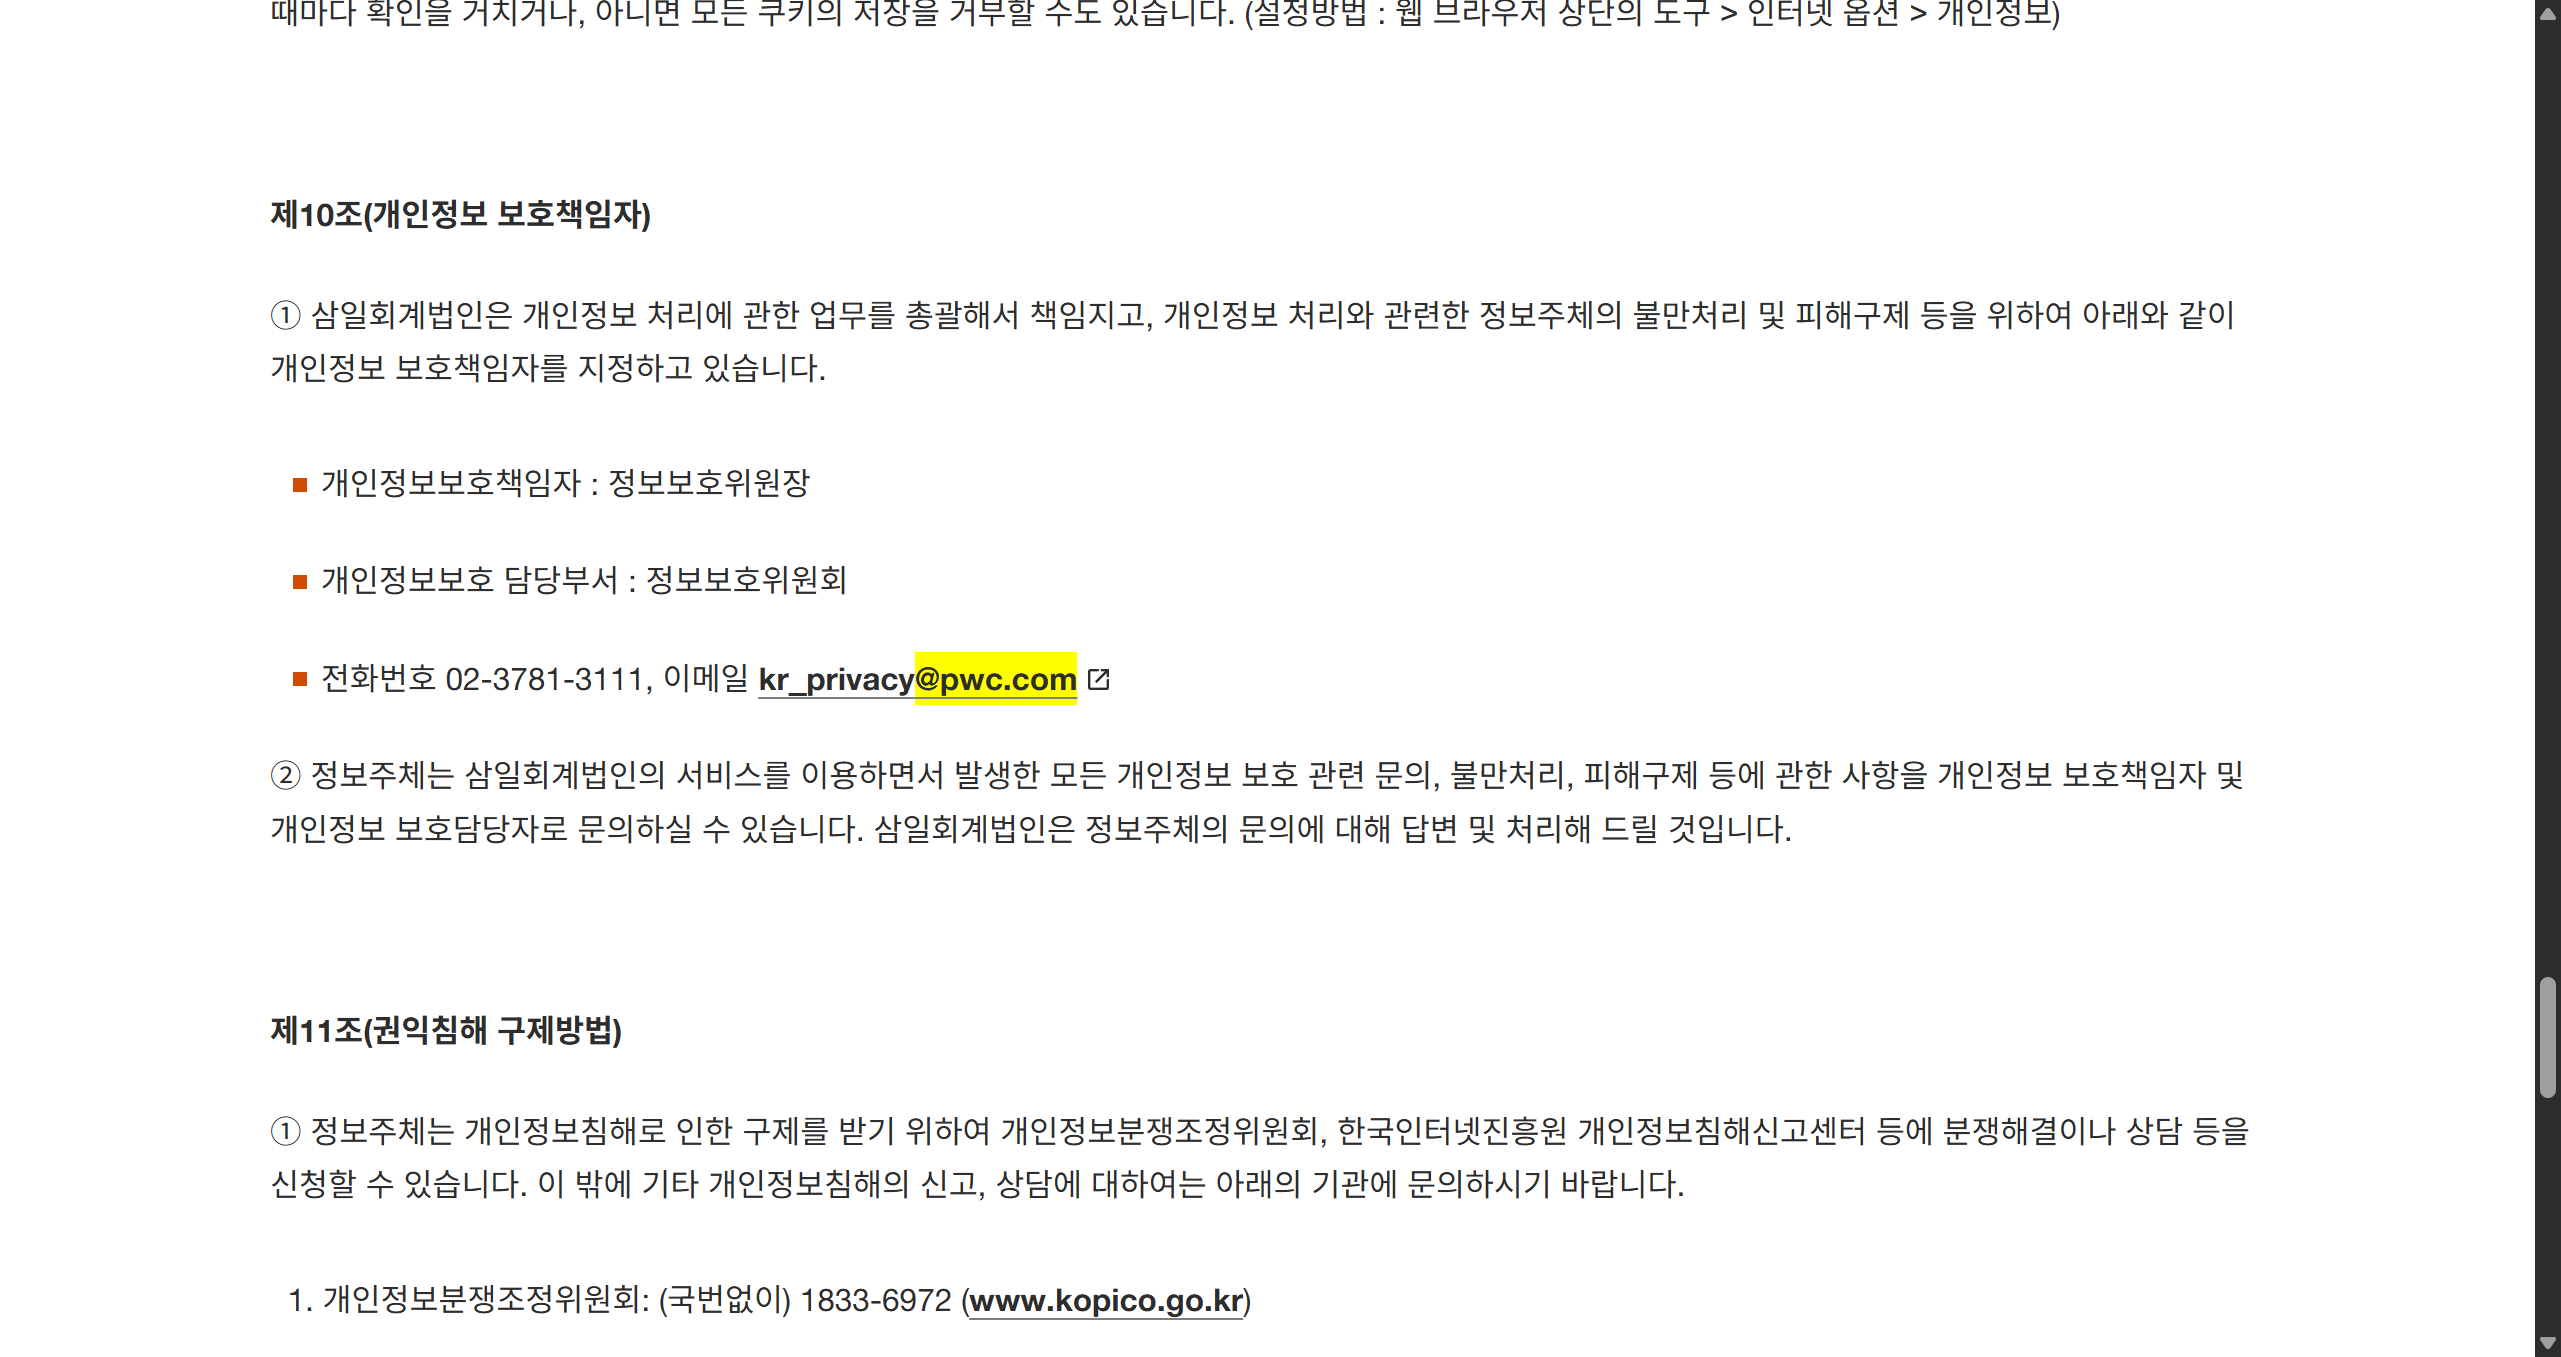
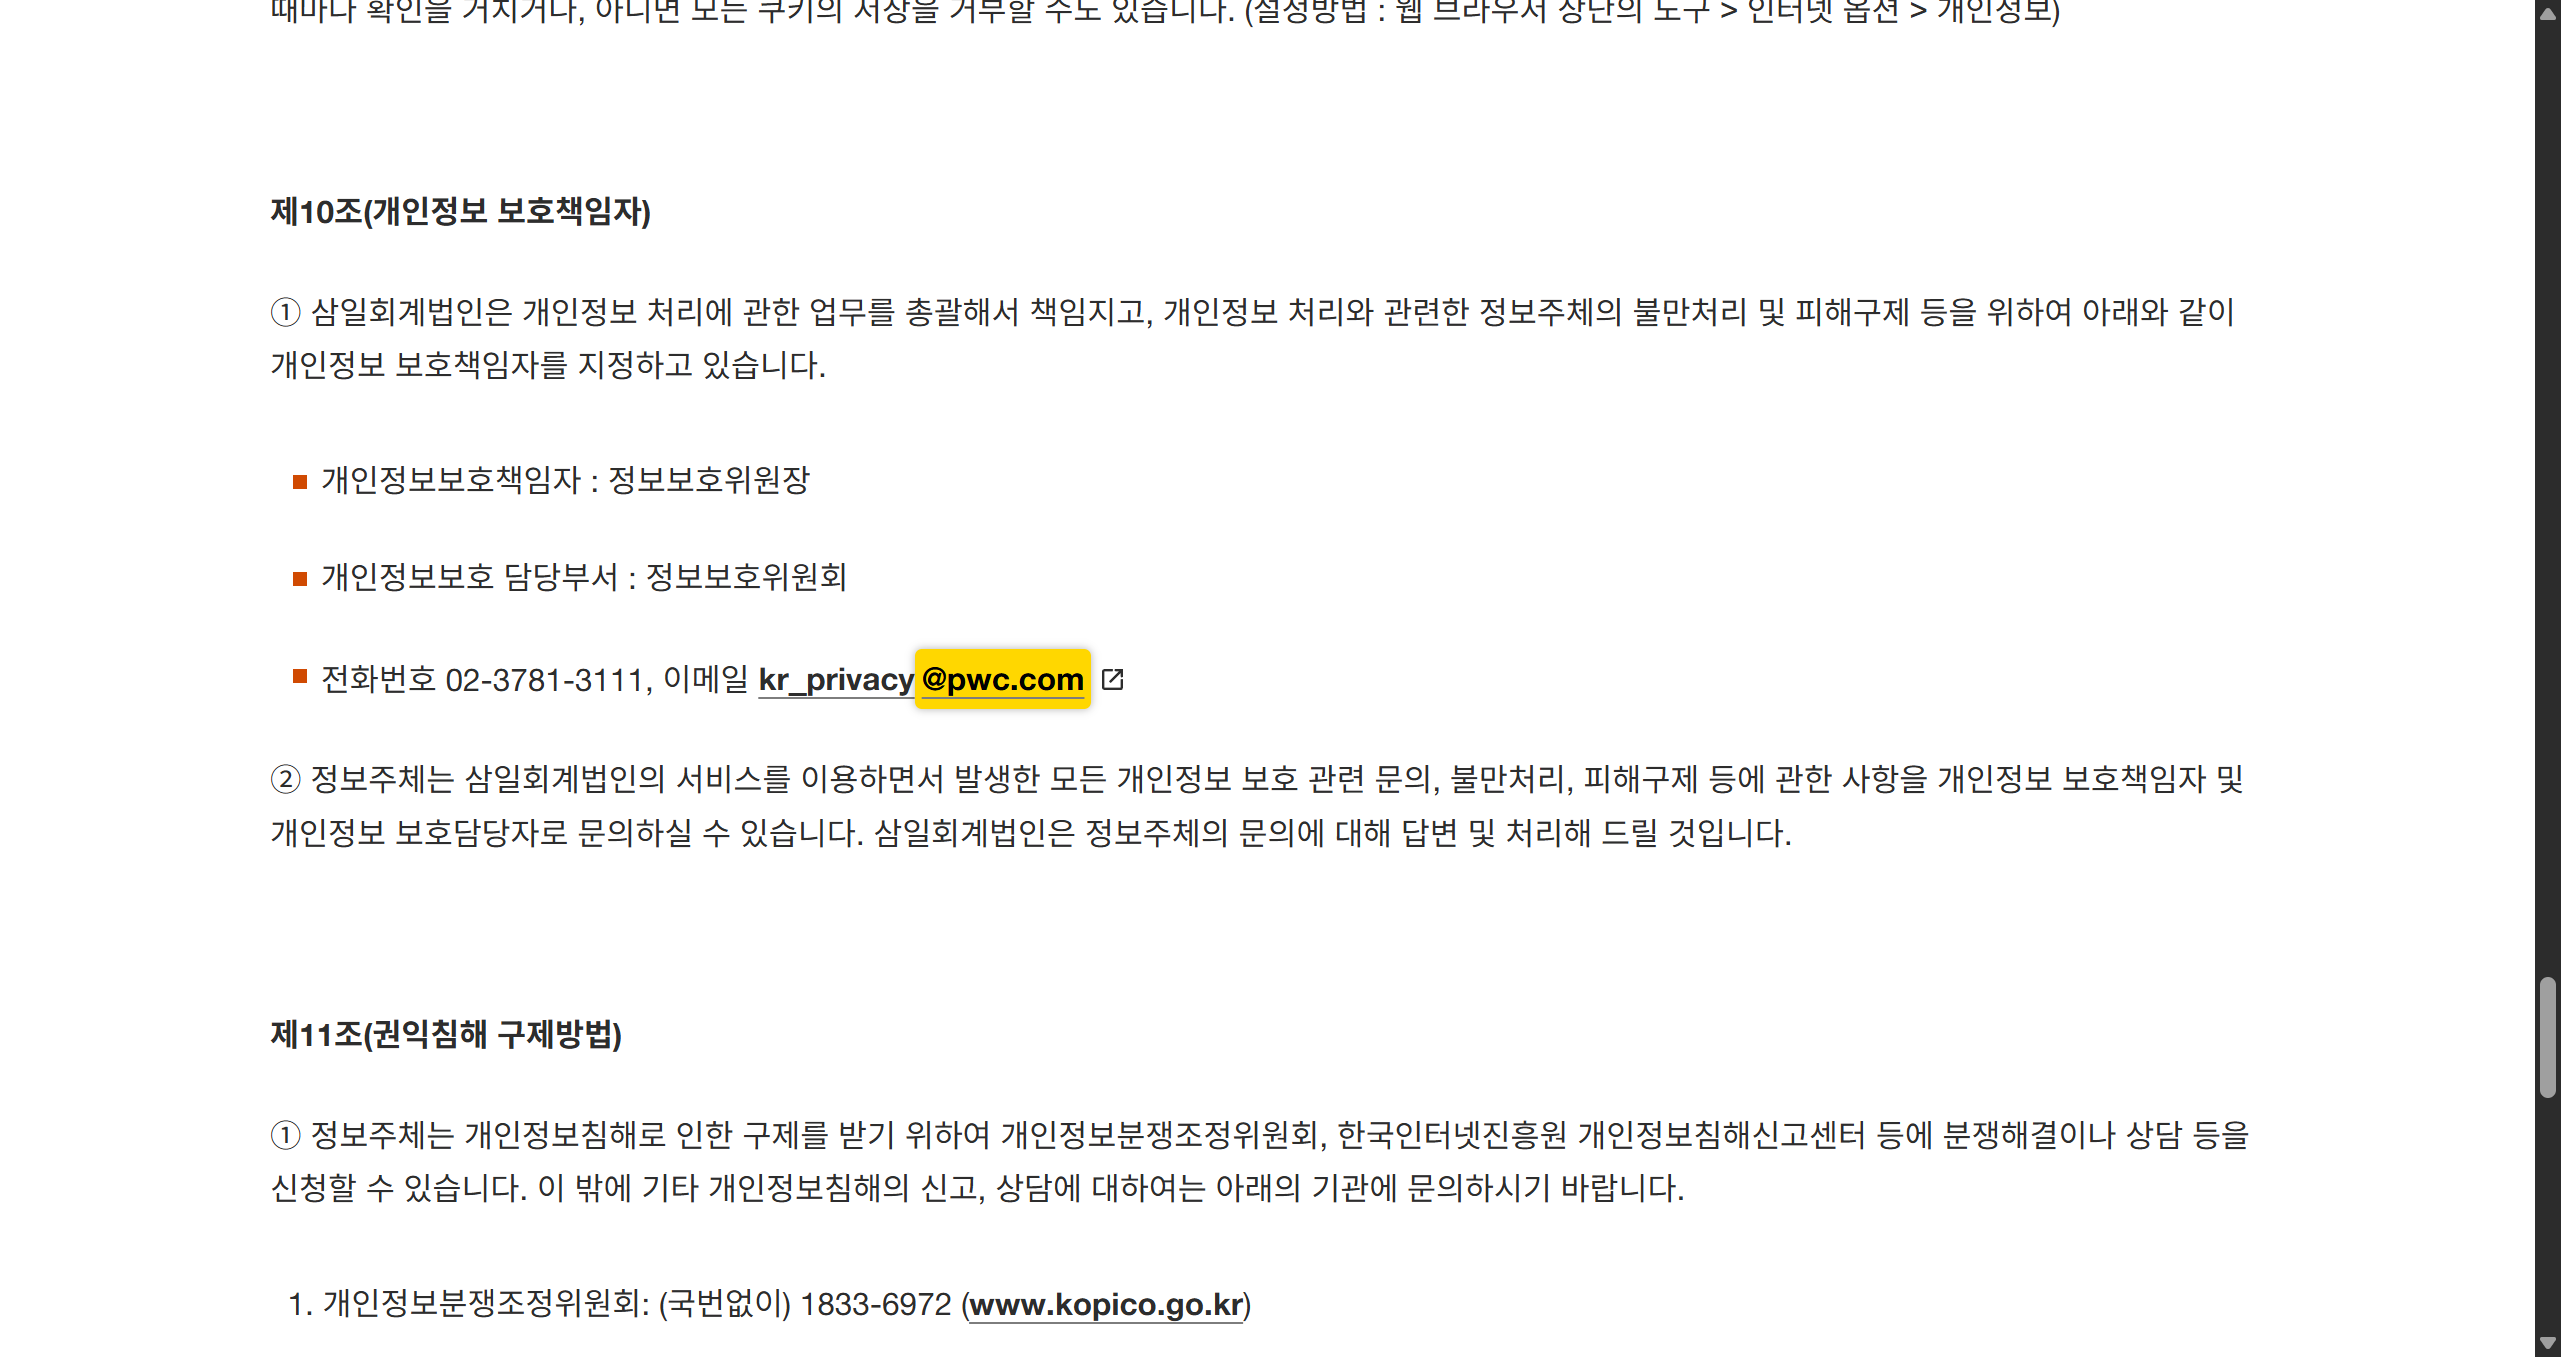
Add files via upload

diff --git a/main.py b/main.py
@@ -139,7 +139,7 @@ def crawl(url, target_domain):
                 buckets[3].append(full_url)
             elif any(k in href_lower for k in ['notice', 'news', 'announcement']) or '공지' in text_a:
                 buckets[4].append(full_url)
-            elif any(k in href_lower for k in ['recruit', 'career', 'job']) or '차용' in text_a:
+            elif any(k in href_lower for k in ['recruit', 'career', 'job']) or '채용' in text_a:
                 buckets[5].append(full_url)
             else:
                 buckets[7].append(full_url)
@@ -171,7 +171,7 @@ def selenium_highlight(target_url, target_domain):
     options.add_argument("--start-maximized")
     driver = webdriver.Chrome(service=Service(ChromeDriverManager().install()), options=options)
     driver.get(target_url)
-    time.sleep(2)
+    time.sleep(3)
 
     # 페이지 내 도메인 텍스트를 하이라이팅하는 JavaScript
     highlight_script = f"""
@@ -184,7 +184,12 @@ def selenium_highlight(target_url, target_domain):
         const index = text.indexOf("{target_domain}");
         if (index !== -1) {{
             const span = document.createElement('span');
-            span.style.backgroundColor = 'yellow';
+            span.style.color = 'black';  
+            span.style.backgroundColor = '#FFD700';
+            span.style.padding = '2px 4px';
+            span.style.borderRadius = '4px';
+            span.style.fontWeight = 'bold';
+            span.style.boxShadow = '0 0 5px rgba(0,0,0,0.3)'; 
 
             const before = document.createTextNode(text.slice(0, index));
             const highlight = document.createTextNode(text.slice(index, index + "{target_domain}".length));
@@ -207,7 +212,7 @@ def selenium_highlight(target_url, target_domain):
     """
     found = driver.execute_script(highlight_script)
     if found:
-        time.sleep(2)
+        time.sleep(3)
         save_name = f"{target_domain.replace('@', 'at_').replace('.', '_')}.png"
         driver.save_screenshot(save_name)
     driver.quit()
